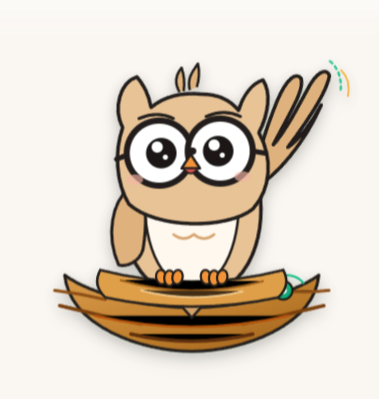
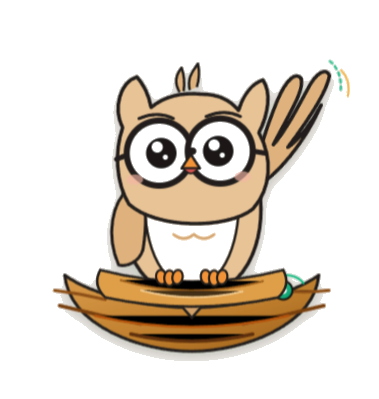
Remove owl mascot image background
Strip white background from owl-mascot.png to transparent,
remove mix-blend-mode workaround.

diff --git a/components/views/WelcomeView.tsx b/components/views/WelcomeView.tsx
@@ -313,7 +313,7 @@ export function WelcomeView() {
                       <img
                         alt="Owl Mascot"
                         src="/owl-mascot.png"
-                        style={{ width: "100%", height: "100%", objectFit: "contain", mixBlendMode: "multiply" }}
+                        style={{ width: "100%", height: "100%", objectFit: "contain" }}
                       />
                     </div>
                   </div>
